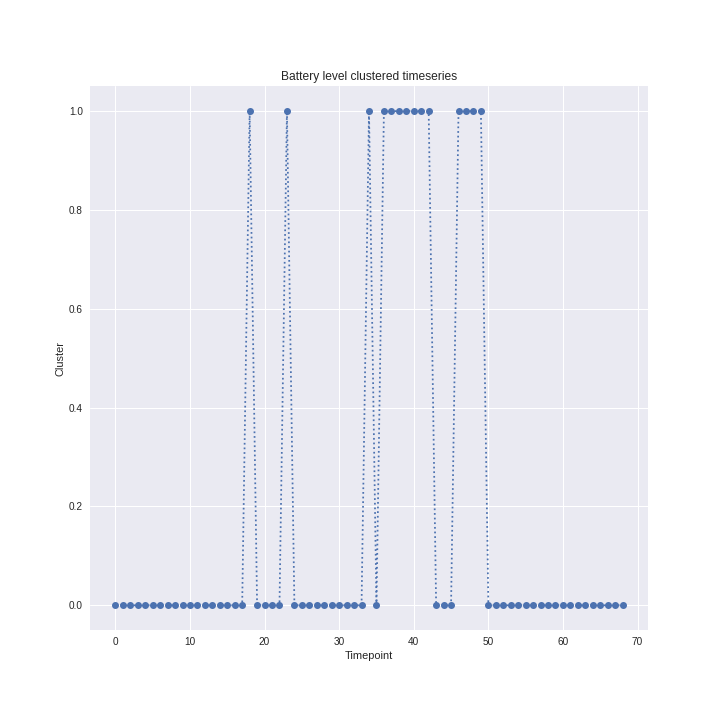
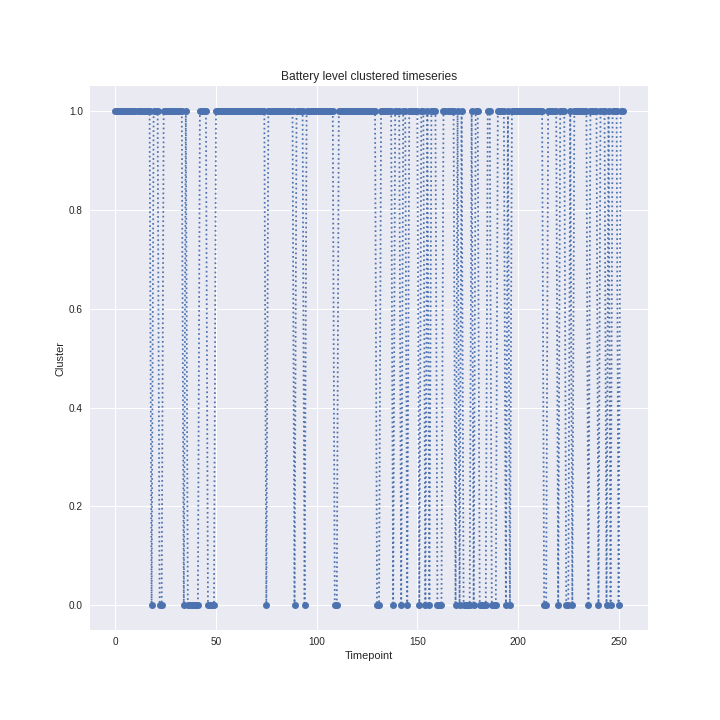
17022021

diff --git a/Source/Analysis/process_battery.py b/Source/Analysis/process_battery.py
@@ -18,6 +18,7 @@ from pathlib import Path
 # third party imports
 import numpy as np
 import matplotlib.pyplot as plt
+import pandas as pd
 
 # Local application import
 from Source.Analysis.calculate_similarity import calculate_similarity
@@ -58,6 +59,7 @@ def process_battery(df,FIGPATH):
        
     #%% rolling stats
     w = 7*24
+    w=7
     #FIGPATH = Path(r'C:\Users\arsii\Documents\Results\RollingStatistics')
     #FIGPATH = Path(r'F:\tscfat\Results\RollingStatistics')
     FIGPATH = Path.cwd() / 'Results' / 'RollingStatistics'
@@ -89,8 +91,78 @@ def process_battery(df,FIGPATH):
     
     clusters = cluster_timeseries(data,FIGNAME, FIGPATH, title="Battery level clustered timeseries",n=2)
 
-   
+    filt_1 = clusters > 0
+    filt_2 = clusters < 1
     
+    clust_1 = data[filt_1]
+    clust_2 = data[filt_2]
+    
+    fig,ax = plt.subplots(2,1,figsize=(10,7))
+    fig.suptitle("Battery level clusters / hourly average",fontsize=20)
+    
+    ax[0].plot(np.mean(clust_1,axis=0))
+    ax[0].set_title('Clusters 1')
+    ax[0].set(xlabel = "Time (Hour)",ylabel="Battery level (%)")
+    ax[0].set(ylim=(30,100))
+    
+        
+    ax[1].plot(np.mean(clust_2,axis=0))
+    ax[1].set_title("Cluster 2")
+    ax[1].set(xlabel = "Time (Hour)",ylabel="Battery level (%)")
+    ax[1].set(ylim=(30,100))
+    fig.tight_layout(pad=1.0)
+    
+    plt.show()
+    
+    weekdays = pd.DataFrame(data = clusters,    # values
+                            index = resampled_day[1:-1].index,   # 1st column as index
+                            columns = ['clusters']) # 1st row as the column names
+    
+    wd1 = weekdays[weekdays['clusters'] == 0]
+    wd1['date'] = wd1.index
+    wd1['date'] = pd.to_datetime(wd1['date'])
+    
+    wd = weekdays.groupby(wd1['date'].dt.day_name()).count()
+    wd.index = pd.Categorical(wd.index, categories= ['Monday','Tuesday','Wednesday','Thursday','Friday','Saturday', 'Sunday'],
+                                           ordered=True)
+    wd = wd.sort_index()
+    wd.plot(kind='bar',title="Cluster 0 / daily counts",ylabel='Count')
+    
+    wd2 = weekdays[weekdays['clusters'] == 1]
+    wd2['date'] = wd2.index
+    wd2['date'] = pd.to_datetime(wd2['date'])
+    
+    wd3 = weekdays.groupby(wd2['date'].dt.day_name()).count()
+    wd3.index = pd.Categorical(wd3.index, categories= ['Monday','Tuesday','Wednesday','Thursday','Friday','Saturday', 'Sunday'],
+                                           ordered=True)
+    wd3 = wd3.sort_index()
+    wd3.plot(kind='bar',title="Cluster 1 / daily counts",ylabel='Count')
+        
+    fig,ax = plt.subplots(figsize=[10,4])
+    weekdays.plot(style='o',ax=ax)
+    ax.set_yticks([0,1])
+    ax.set(title='Battery level clustered time series',ylabel='Cluster')
+    ax.set(ylim=(-0.5,1.5))
+    plt.show()
+    
+    #%%
+    
+    fig,ax = plt.subplots(2,1,figsize=(10,7))
+    fig.suptitle("Cluster weekday distribution",fontsize=20)
+    
+    wd.plot(kind='bar',ax = ax[0])
+    ax[0].set_title('Clusters 0')
+    ax[0].set(xlabel = "Weekday",ylabel="Count")
+    ax[0].set(ylim=(0,35))
+    
+        
+    wd3.plot(kind='bar',ax = ax[1])
+    ax[1].set_title("Cluster 1")
+    ax[1].set(xlabel = "Weekday",ylabel="Count")
+    ax[1].set(ylim=(0,35))
+    fig.tight_layout(pad=1.0)
+    
+    plt.show()
     #%%
     return df, timeseries, data
 

diff --git a/Source/Analysis/plot_similarity.py b/Source/Analysis/plot_similarity.py
@@ -82,14 +82,14 @@ def plot_similarity(sim,
 
     sim[sim < threshold] = 0
     # plot it
-    fig, ax = plt.subplots(4,4,figsize=(8.3,9.5),sharex=True)  
+    fig, ax = plt.subplots(4,4,figsize=(10,10),sharex=True)  
     gridsize = (4,4)
     ax1 = plt.subplot2grid(gridsize, (0,0), colspan=3,rowspan=3)
     ax2 = plt.subplot2grid(gridsize, (1,3), colspan=1,rowspan=1)
     ax3 = plt.subplot2grid(gridsize, (3,0), colspan=4,rowspan=1)
     
     ax1.imshow(sim,cmap="Blues", origin='lower')
-    ax1.set_title("Similarity matrix", fontsize=22)
+    ax1.set_title("Similarity matrix", fontsize=18)
     ax1.set_xlabel('$m = {}$'.format(sim.shape[0]),fontsize=16)
     ax1.set_ylabel('$n = {}$'.format(sim.shape[1]),fontsize=16)
     #ax1.text(-0.1, 1.05, "A", fontsize=26, fontweight='bold', transform=ax1.transAxes,va='top', ha='right')
@@ -97,14 +97,14 @@ def plot_similarity(sim,
     
     if type(kernel) != bool:
         ax2.imshow(kernel,cmap='Blues')
-        ax2.set_title('Kernel',fontsize=22)
+        ax2.set_title('Kernel',fontsize=18)
         #ax[1,3].text(-0.1, 1.05, "B", fontsize=26, fontweight='bold', transform=ax1.transAxes,va='top', ha='right')
     
     #ax1 = plt.subplot(gs[1])
  
     if axis is not None:
         ax3.plot(axis,nov,label="Novelty")
-        ax3.set_title("Novelty score", fontsize=22)
+        ax3.set_title("Novelty score", fontsize=18)
         ax3.set_xlabel('Time (date)',fontsize=16)
         ax3.set_ylabel('Novelty',fontsize=16)
         ax3.set_xticks(np.arange(len(axis))[::7])
@@ -117,7 +117,7 @@ def plot_similarity(sim,
 
     else:
         ax3.plot(nov,label="Novelty")
-        ax3.set_title("Novelty score", fontsize=22)
+        ax3.set_title("Novelty score", fontsize=18)
         ax3.set_xlabel('Time (day)',fontsize=16)
         ax3.set_ylabel('Novelty',fontsize=16)
         #ax3.set_xticks(np.arange(len(axis))[::7])
@@ -132,9 +132,10 @@ def plot_similarity(sim,
     ax[0,3].set_axis_off()
     ax[2,3].set_axis_off()
     
-    plt.suptitle(title + " Daily Patterns",fontsize=26,y=1.03)
+    plt.suptitle(title + " Daily Patterns",fontsize=20,y=1)
+    plt.suptitle(title,fontsize=20,y=1)
     plt.grid(True)
-    plt.tight_layout(pad=0)
+    plt.tight_layout(pad=1)
     
     return fig
 

diff --git a/Source/oura_example.py b/Source/oura_example.py
@@ -47,6 +47,7 @@ def crosscorr(datax, datay, lag=0, wrap=False):
             shiftedy = datay.shift(lag)
             shiftedy.iloc[:lag] = datay.iloc[-lag:].values
             return datax.corr(shiftedy,method='pearson')
+        
         else: 
             return datax.corr(datay.shift(lag),method='pearson')
 
@@ -284,25 +285,27 @@ def main():
             
             #%%
             # Windowed time lagged cross correlation
-            window = 7
+            window = 14
+            max_lag = 7
             no_splits = 15
             samples_per_split = int(df_scaled.shape[0] / no_splits)
             rss = []
             
-            for t in range(0, no_splits):
-                d1 = df_scaled[pair[0]][(t) * samples_per_split : (t+1) * samples_per_split]
-                d2 = df_scaled[pair[1]][(t) * samples_per_split : (t+1) * samples_per_split]
-                rs = [crosscorr(d1, d2, lag) for lag in range(-int(window), int(window+1))]
+            for t in range(0, no_splits-1):
+                d1 = df_scaled[pair[0]][(t) * window : (t+2) * window]
+                d2 = df_scaled[pair[1]][(t) * window : (t+2) * window]
+                rs = [crosscorr(d1, d2, lag) for lag in range(-int(max_lag), int(max_lag+1))]
                 rss.append(rs)
             
             rss = pd.DataFrame(rss)
             
-            f,ax = plt.subplots(figsize=(10,5))
+            f,ax = plt.subplots(figsize=(10,10))
             sns.heatmap(rss,cmap='RdBu_r',ax=ax, annot=True,fmt='.1f')
             ax.set(title=f'Windowed Time Lagged Cross Correlation \n {pair[0]} leads <> {pair[1]} leads')
             ax.set(xlim=[0,15])
             ax.set(xlabel='Offset',ylabel='Window epochs')
             ax.set_xticklabels(np.arange(-7,8,1))#[int(item-7) for item in ax.get_xticks()]);
+            plt.show()
         
         #%%
         # Rolling window time lagged cross correlation

diff --git a/Source/Analysis/decompose_timeseries.py b/Source/Analysis/decompose_timeseries.py
@@ -20,7 +20,7 @@ def _plot_decomposition(Result,
                       title,
                       savepath = False,
                       savename = False,
-                      ylabel = "Battery Level (%)",
+                      ylabel = "Value",
                       xlabel  = "Date",
                       dates = False,
                       test = False,
@@ -60,7 +60,7 @@ def _plot_decomposition(Result,
     
     fig1 = plt.figure(figsize=(9.3,9.3))
     
-    plt.suptitle(title,fontsize=22,y=1.05)
+    plt.suptitle(title,fontsize=22,y=1)
     
     plt.subplot(4,1,1)
     plt.plot(Result.observed)
@@ -165,7 +165,7 @@ def STL_decomposition(series,
                           title,
                           savepath = savepath,
                           savename = savename,
-                          ylabel = "Battery Level (%)",
+                          ylabel = "Value",
                           xlabel  = "Date",
                           dates = False,
                           )

diff --git a/Source/Analysis/rolling_statistics.py b/Source/Analysis/rolling_statistics.py
@@ -96,12 +96,12 @@ def rolling_statistics(ts,
     skew = ts.rolling(window = w).skew()
     kurt = ts.rolling(window = w).kurt()
     flu_int = ts.rolling(window = w).apply(lambda x: fluctuation_intensity(x.values,100,w))#,args=(100,w))
-    #ent = ts.rolling(window = w).apply(entropy)
-    ent = ts.rolling(window = w).apply(nolds.sampen)
+    ent = ts.rolling(window = w).apply(entropy)
+    #ent = ts.rolling(window = w).apply(nolds.sampen)
     
     
-    fig,ax = plt.subplots(4,2,figsize=(15,15))
-    fig.suptitle("Rolling Statistics",fontsize=26,y=1.0)
+    fig,ax = plt.subplots(4,2,figsize=(10,10))
+    fig.suptitle("Rolling Statistics",fontsize=20,y=1.0)
     
     ax[0,0].plot(ts)
     ax[0,0].set_title('Original timeseries',fontsize=16)
@@ -150,5 +150,7 @@ def rolling_statistics(ts,
     ax[3,1].set_xlabel('Date')
     ax[3,1].set_ylabel('Value')
     ax[3,1].tick_params('x', labelrotation=45)
+    
+    plt.tight_layout(pad=1)
   
 

diff --git a/Source/Analysis/summary_statistics.py b/Source/Analysis/summary_statistics.py
@@ -48,8 +48,8 @@ def _plot_summary(series,
 
     """
     
-    fig,ax = plt.subplots(3,2,figsize=(8,8))
-    fig.suptitle(title,fontsize=20,y=1.05)
+    fig,ax = plt.subplots(3,2,figsize=(10,10))
+    fig.suptitle(title,fontsize=20,y=1)
     
     ax[0,0].plot(series)
     #ax[0,0].plot(x = series.index, y = series.values)
@@ -71,8 +71,10 @@ def _plot_summary(series,
     ax[1,1].set_title('Autocorrelation')
     
     sm.graphics.tsa.plot_pacf(series,lags=24,ax=ax[2,0])
+    ax[2,0].set(xlabel='lag',ylabel='correlation')
     
     sm.graphics.tsa.plot_acf(series,lags=24,ax=ax[2,1])
+    ax[2,1].set(xlabel='lag',ylabel='correlation')
     
     fig.tight_layout(pad=1.0)
     

diff --git a/Source/example.py b/Source/example.py
@@ -35,6 +35,7 @@ def main():
     #DATA_FOLDER = Path(r'F:\tscfat\Data') # <- WINDOWS
     #DATA_FOLDER = Path(r'/mnt/f/tscfat/Data')
     DATA_FOLDER = Path.cwd() / 'Data' 
+    DATA_FOLDER = Path('/home/arsi/Documents/Data/')
     #DATA_FOLDER = Path(r'/u/26/ikaheia1/data/Documents/SpecialAssignment/tscfat/Data')
     csv_dict = load_all_subjects(DATA_FOLDER)
     dict_keys = list(csv_dict.keys()) 
